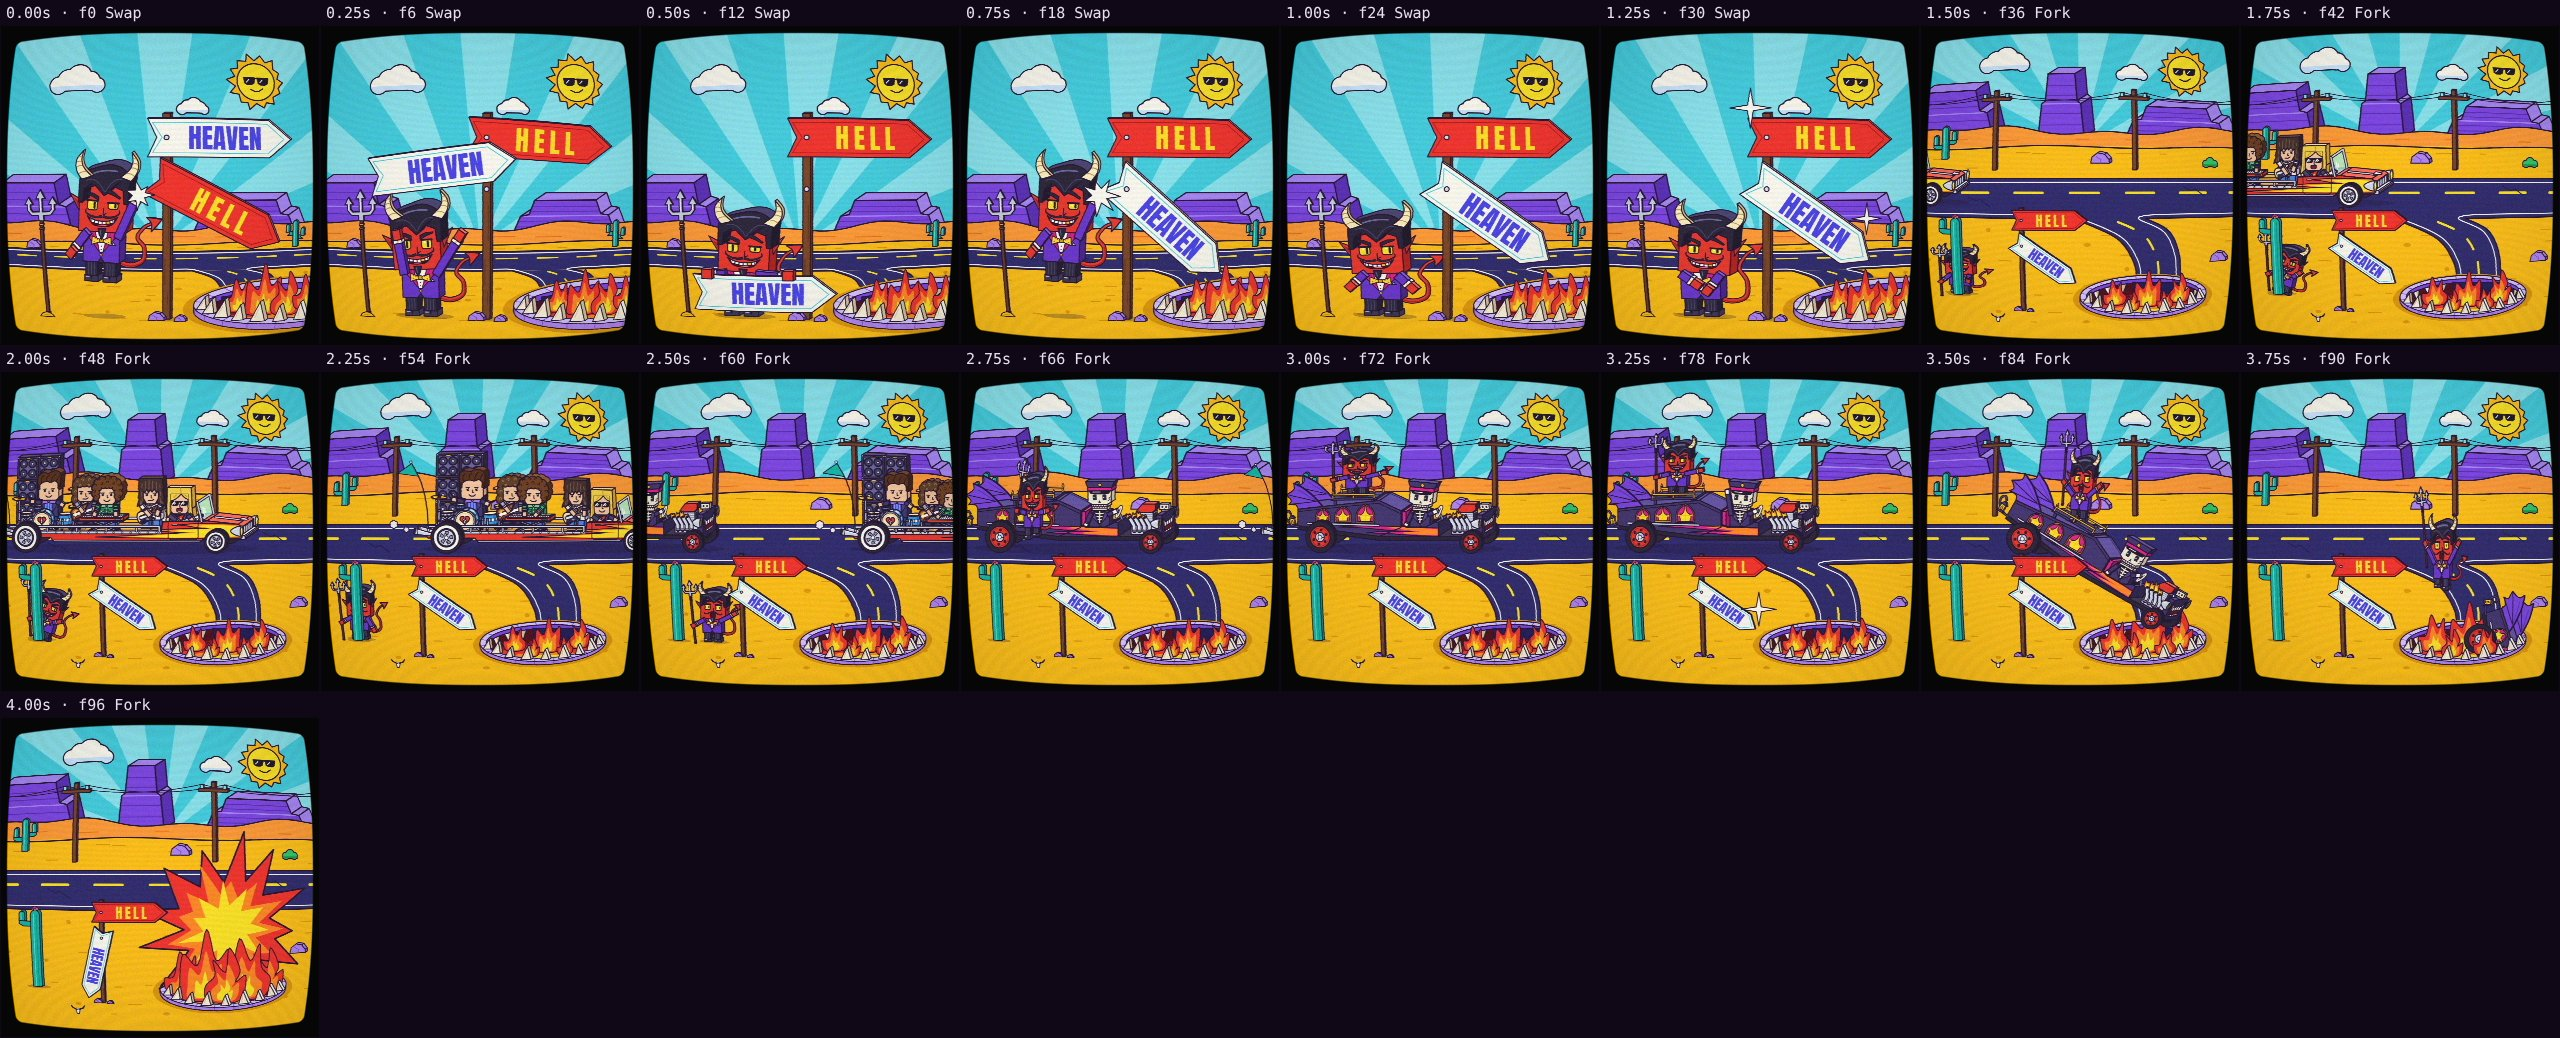
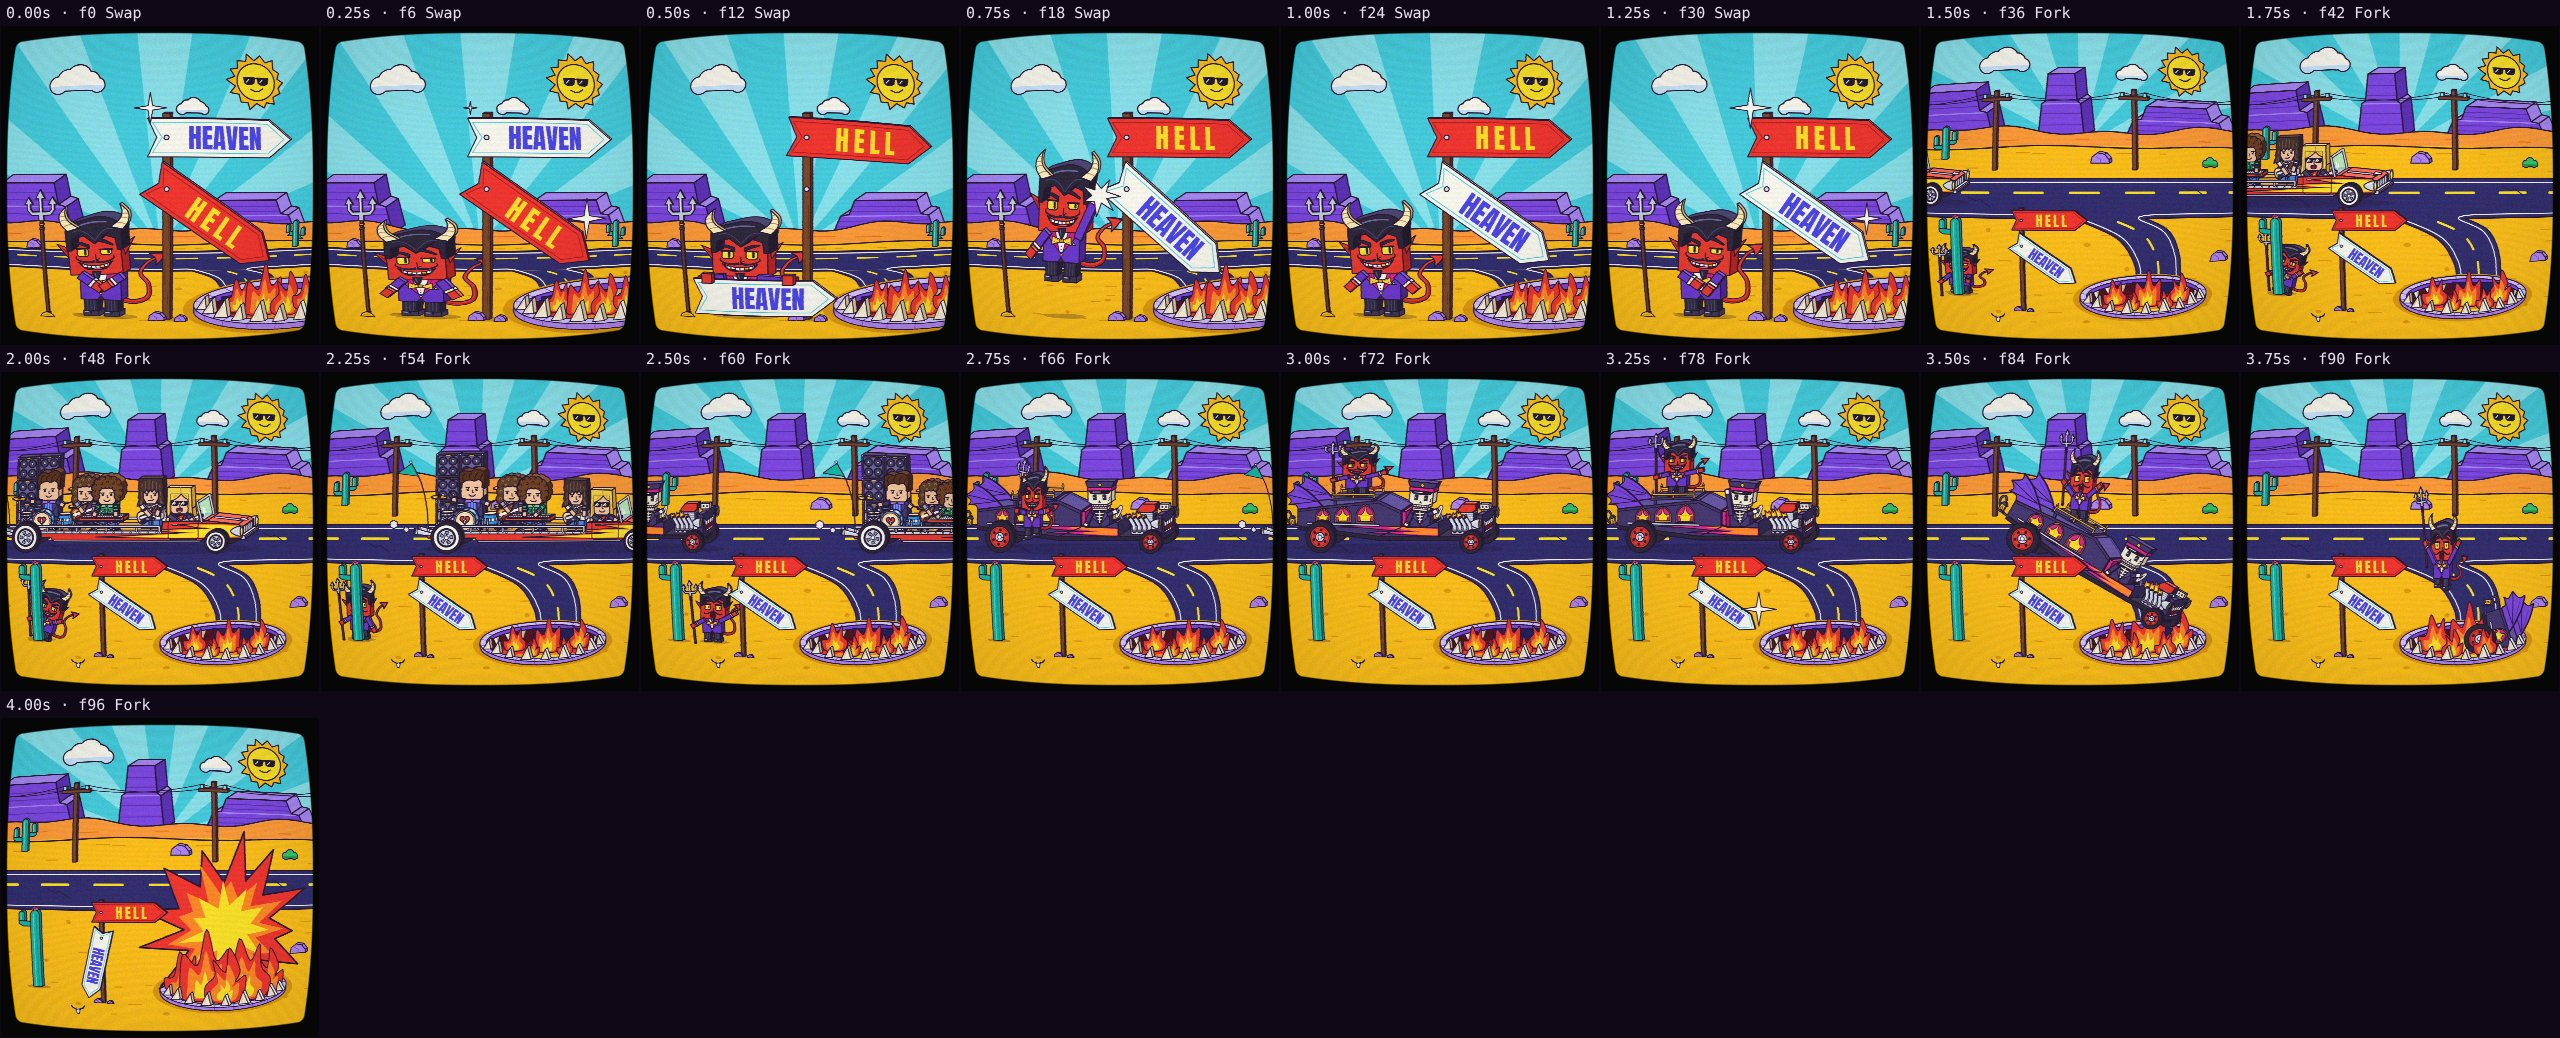
wip(runnin-down-a-dream): verse1b re-timed so the sign's original state holds a beat
Claude-Session: https://claude.ai/code/session_01UB8Eocu6YQhvkYFYMosPEV

Changed region(s): [[0.0, 0.0925, 0.3438, 0.3083], [0.3125, 0.0925, 0.375, 0.1541]]

diff --git a/sandbox/2026-11-11-runnin-down-a-dream/segments/verse1a.js b/sandbox/2026-11-11-runnin-down-a-dream/segments/verse1a.js
@@ -165,7 +165,7 @@
 
         // --- the Devil
         const dn = Math.floor((t - n(4)) * 12 + 1e-6); // drawings since the car arrived
-        const SPIN = 'bFWWWWFWWWFWWFWFF'; // bar 15, a drawing each: braced, then the top (W) and glimpses of him (F) as it slows
+        const SPIN = 'bFWWWWFWWWFWWFWFF'; // bar 15, a drawing each: braced, stripped, then the top (W) and glimpses of him (F) as it slows
         const disguised = !at(t, RIP), spinning = at(t, RIP) && !at(t, n(8)), signUp = at(t, RIP) && !at(t, SIGN_FALL), signOn = at(t, SIGN_LAND);
         const tauS = twos(t, n(8)) - n(8), tauL = twos(t, SIGN_LAND) - SIGN_LAND;
         let pose, whirl = null, dxx = 0;

diff --git a/sandbox/2026-11-11-runnin-down-a-dream/segments/verse1a-props.js b/sandbox/2026-11-11-runnin-down-a-dream/segments/verse1a-props.js
@@ -54,7 +54,6 @@ const V1A = (() => {
         g.scale(s, s);
         g.rotate(pose.lean ?? 0);
         g.scale(1 + q, 1 - q);
-        if (fn.body) fn.body(3.2 / s);
         g.translate(0, pose.headDy ?? 0);
         g.rotate(pose.headTilt ?? 0);
         g.lineJoin = 'round';

diff --git a/sandbox/2026-11-11-runnin-down-a-dream/dev/verse1c/review/auto.md b/sandbox/2026-11-11-runnin-down-a-dream/dev/verse1c/review/auto.md
@@ -1,0 +1,26 @@
+# Automatic review · sandbox/2026-11-11-runnin-down-a-dream/dev/verse1c/scene.js
+
+960×960 px · 24 fps · 7.08 s · 170 frames · 169.97 BPM
+
+## Warnings
+
+- None.
+
+## Motion
+
+Energy per second (how much the image changes):
+
+```
+▄▅▆▅█▇█ 
+0    5    
+```
+
+No still stretches of 1 s or more.
+
+## Speed
+
+Painting: 131 ms/frame cold, 103 ms warm → full render ≈ 18 s at this size.
+
+## Contact sheet
+
+![sheet](sheet.jpg)

diff --git a/sandbox/2026-11-11-runnin-down-a-dream/dev/verse1a/review/auto.md b/sandbox/2026-11-11-runnin-down-a-dream/dev/verse1a/review/auto.md
@@ -19,7 +19,7 @@ No still stretches of 1 s or more.
 
 ## Speed
 
-Painting: 181 ms/frame cold, 134 ms warm → full render ≈ 23 s at this size.
+Painting: 155 ms/frame cold, 132 ms warm → full render ≈ 22 s at this size.
 
 ## Contact sheet
 

diff --git a/sandbox/2026-11-11-runnin-down-a-dream/dev/verse1b/review/auto.md b/sandbox/2026-11-11-runnin-down-a-dream/dev/verse1b/review/auto.md
@@ -19,7 +19,7 @@ No still stretches of 1 s or more.
 
 ## Speed
 
-Painting: 250 ms/frame cold, 176 ms warm → full render ≈ 18 s at this size.
+Painting: 99 ms/frame cold, 76 ms warm → full render ≈ 8 s at this size.
 
 ## Contact sheet
 
